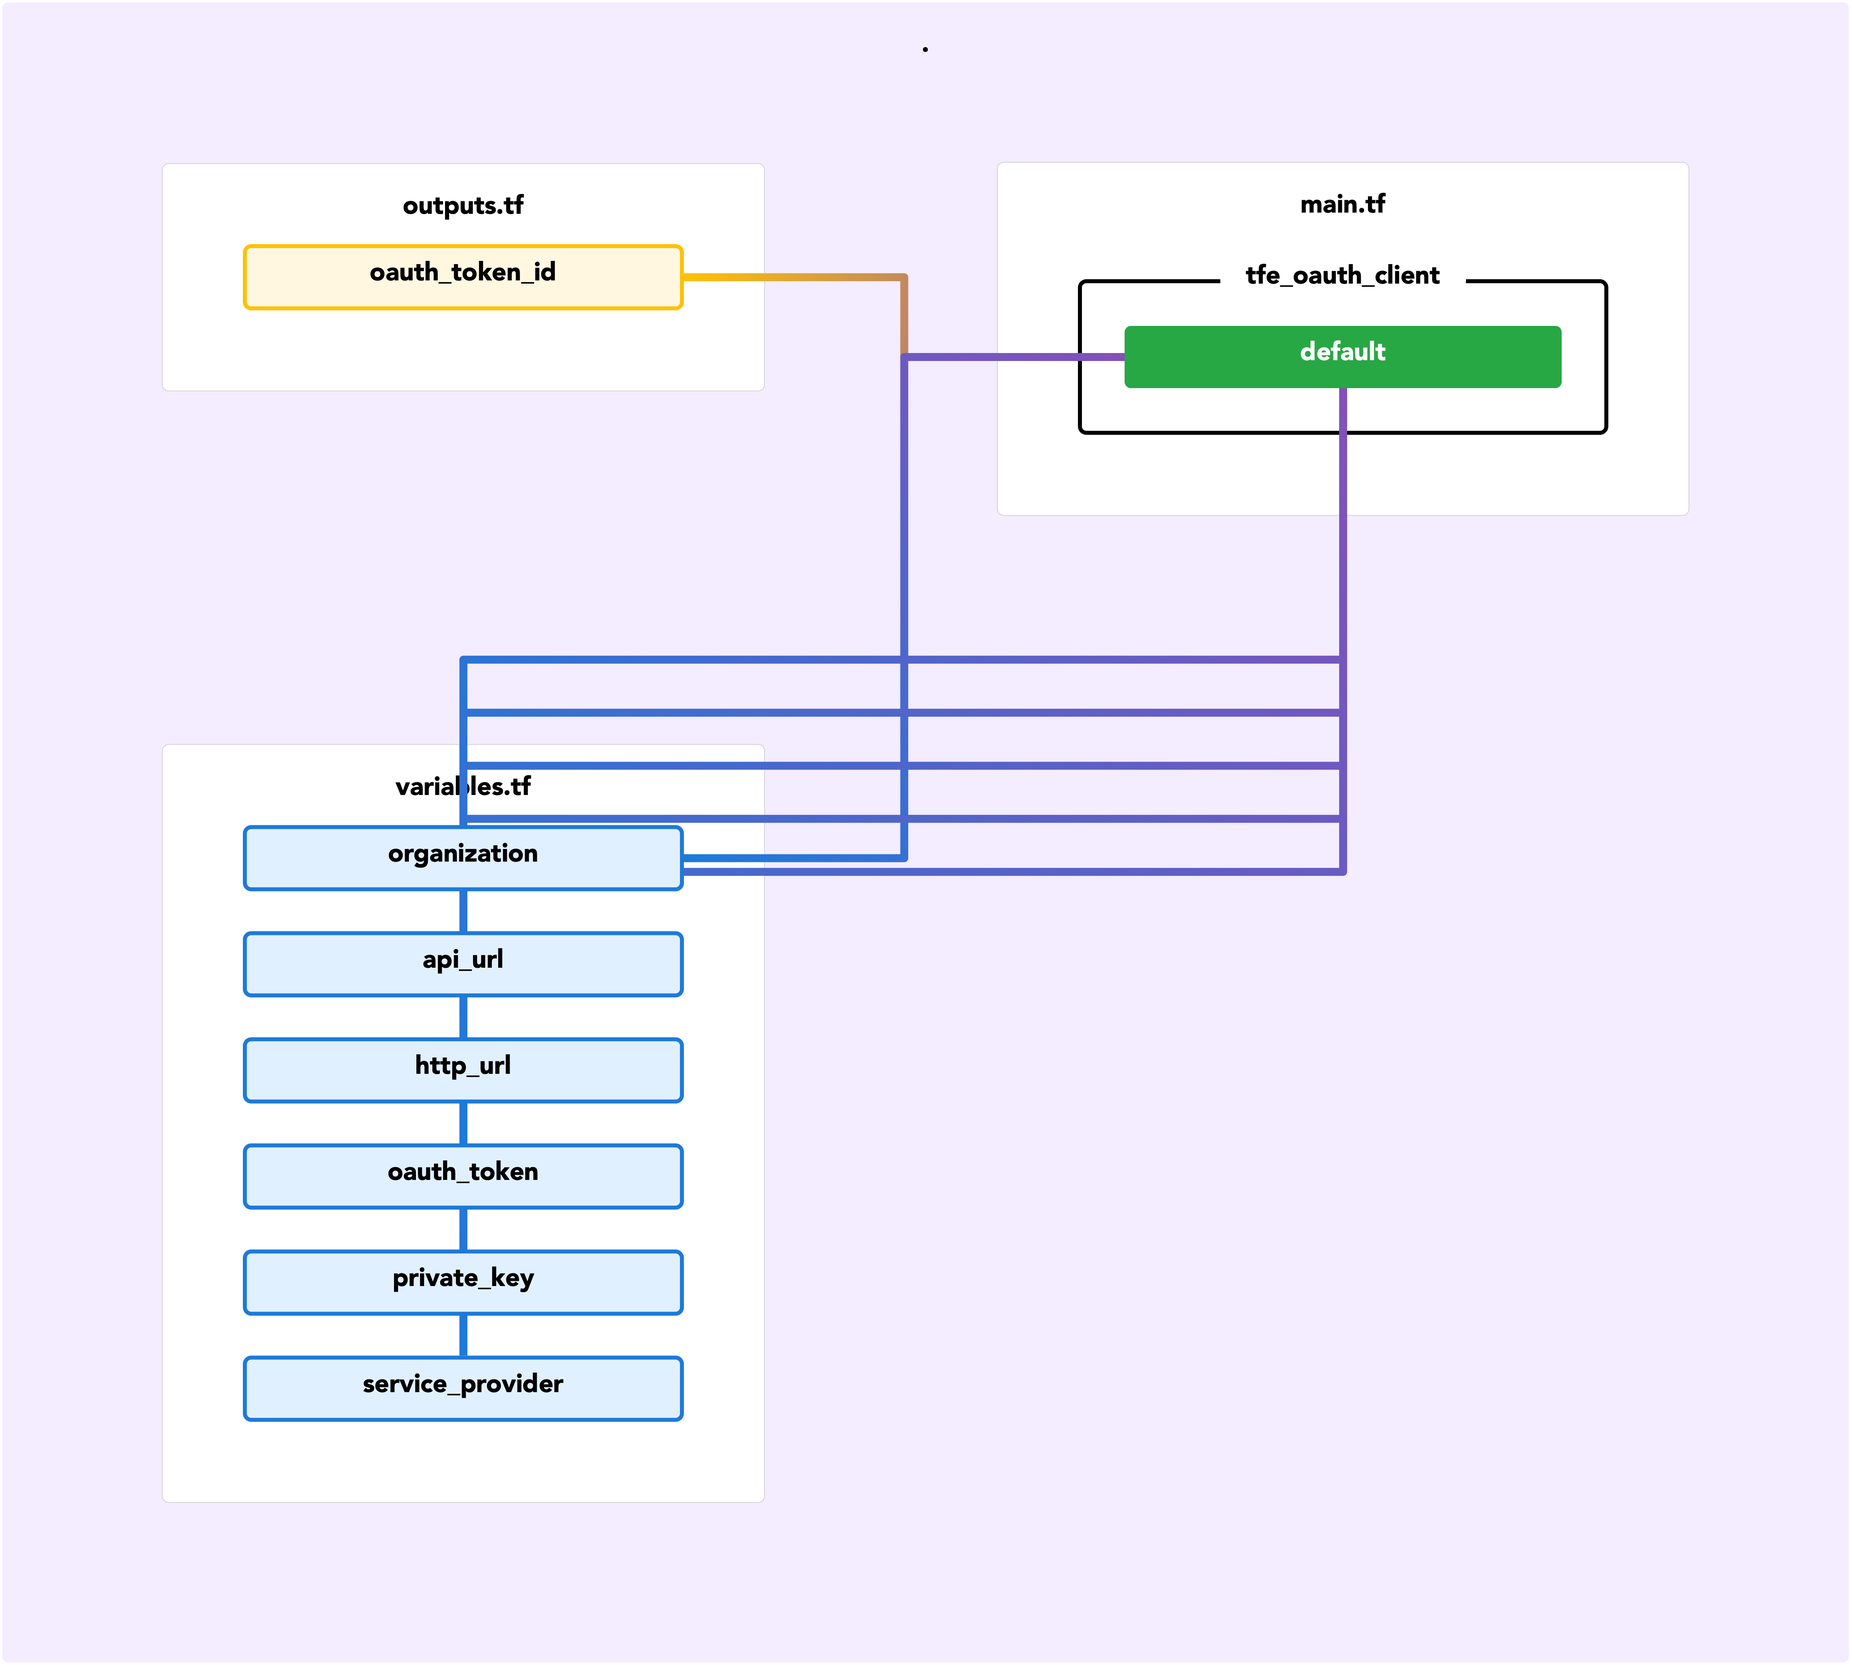
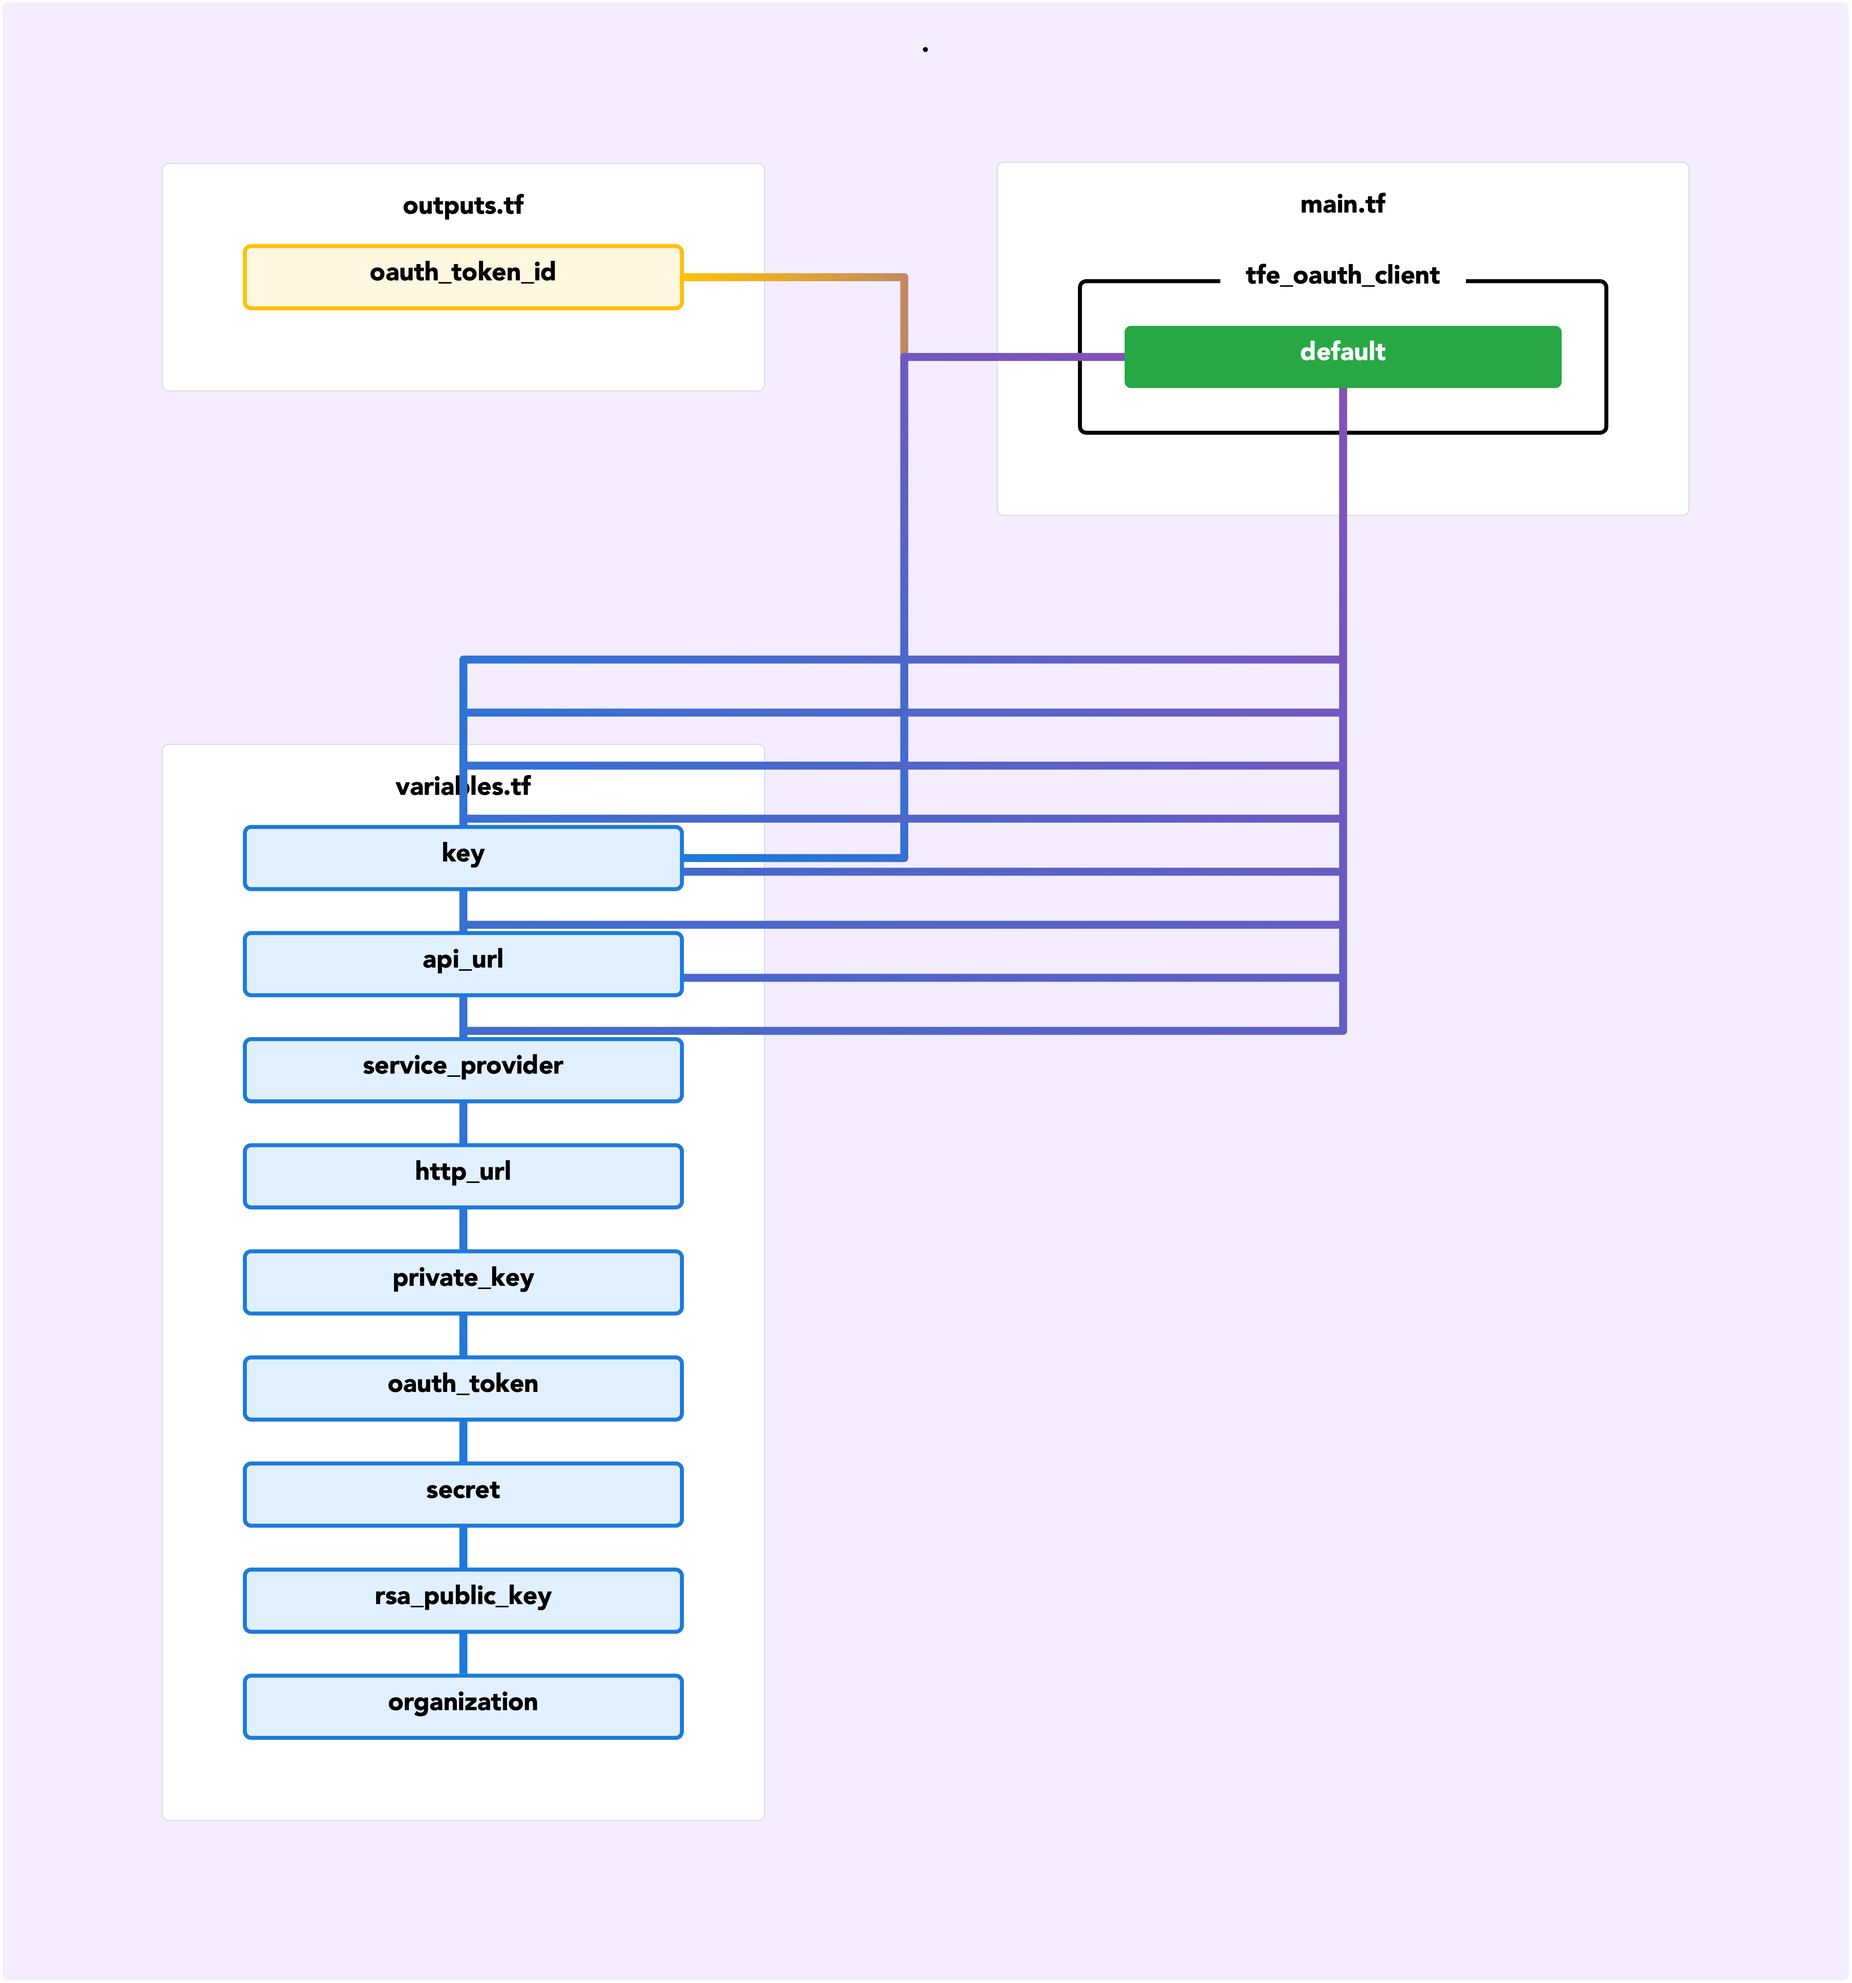
feat: Add support for BitBucket Server and Azure DevOps Server (#6)
* feat: Add support for BitBucket Server and Azure DevOps Server

* docs: Generate README.md

Changed region(s): [[0.1249, 0.3115, 0.7181, 0.9032], [0.1249, 0.0934, 0.8742, 0.2492]]

diff --git a/README.md b/README.md
@@ -29,13 +29,13 @@ module "tfe-oauth_client" {
 | Name | Version |
 |------|---------|
 | <a name="requirement_terraform"></a> [terraform](#requirement\_terraform) | >= 1.0 |
-| <a name="requirement_tfe"></a> [tfe](#requirement\_tfe) | >= 0.26.1, < 1.0.0 |
+| <a name="requirement_tfe"></a> [tfe](#requirement\_tfe) | >= 0.27.0, < 1.0.0 |
 
 ## Providers
 
 | Name | Version |
 |------|---------|
-| <a name="provider_tfe"></a> [tfe](#provider\_tfe) | >= 0.26.1, < 1.0.0 |
+| <a name="provider_tfe"></a> [tfe](#provider\_tfe) | >= 0.27.0, < 1.0.0 |
 
 ## Modules
 
@@ -53,9 +53,12 @@ No modules.
 |------|-------------|------|---------|:--------:|
 | <a name="input_api_url"></a> [api\_url](#input\_api\_url) | The base URL of your VCS provider's API | `string` | n/a | yes |
 | <a name="input_http_url"></a> [http\_url](#input\_http\_url) | The homepage of your VCS provider | `string` | n/a | yes |
+| <a name="input_key"></a> [key](#input\_key) | The OAuth Client key can refer to a Consumer Key, Application Key, or another type of client key for the VCS provider | `string` | `null` | no |
 | <a name="input_oauth_token"></a> [oauth\_token](#input\_oauth\_token) | The token string you were given by your VCS provider | `string` | `null` | no |
 | <a name="input_organization"></a> [organization](#input\_organization) | Name of the organization | `string` | n/a | yes |
 | <a name="input_private_key"></a> [private\_key](#input\_private\_key) | The text of the private key associated with your Azure DevOps Server account | `string` | `null` | no |
+| <a name="input_rsa_public_key"></a> [rsa\_public\_key](#input\_rsa\_public\_key) | Required for BitBucket Server in conjunction with the secret | `string` | `null` | no |
+| <a name="input_secret"></a> [secret](#input\_secret) | The OAuth Client secret is used for BitBucket Server, this secret is the the text of the SSH private key associated with your BitBucket Server Application Link | `string` | `null` | no |
 | <a name="input_service_provider"></a> [service\_provider](#input\_service\_provider) | The VCS provider being connected with | `string` | n/a | yes |
 
 ## Outputs
